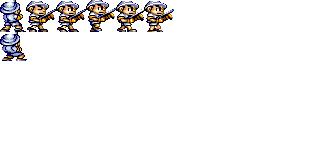
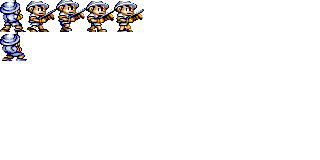
Update
He cambiado la spritesheet para que podamos trabajar de manera más cómoda. He estado viendo lo que tenemos que hacer y este finde podemos hacer hasta la versión 0.3.

Dejaría para el final los cambios de escena, que parece ser lo más chungo. Para la 0.2 haría los enemigos, y para la 0.3 una versión donde toda la primera pantalla sea funcional (disparos, enemigos, pop-out...)

Changed region(s): [[0.1562, 0.0, 0.5625, 0.2188]]

diff --git a/pang/Project_7_Solution/Source/ModuleRender.cpp b/pang/Project_7_Solution/Source/ModuleRender.cpp
@@ -55,7 +55,7 @@ update_status ModuleRender::PreUpdate()
 
 update_status ModuleRender::Update()
 {
-	//Handle positive vertical movement
+	/*//Handle positive vertical movement
 	if (App->input->keys[SDL_SCANCODE_UP] == KEY_REPEAT)
 		camera.y -= cameraSpeed;
 
@@ -68,7 +68,7 @@ update_status ModuleRender::Update()
 	if (camera.x < 0) camera.x = 0;
 
 	if (App->input->keys[SDL_SCANCODE_RIGHT] == KEY_REPEAT)
-		camera.x += cameraSpeed;
+		camera.x += cameraSpeed;*/
 
 
 	return update_status::UPDATE_CONTINUE;

diff --git a/pang/Project_7_Solution/Source/ModulePlayer.cpp b/pang/Project_7_Solution/Source/ModulePlayer.cpp
@@ -30,11 +30,11 @@ ModulePlayer::ModulePlayer()
 
 	//move right
 
-	//rightAnim.PushBack({ 26,0,30,32 });
-	rightAnim.PushBack({ 56,0,30,31 });
-	rightAnim.PushBack({ 86,0,30,31 });
-	rightAnim.PushBack({ 116,0,28,31 });
-	rightAnim.PushBack({ 144,0,28,31 });
+	rightAnim.PushBack({ 26,0,30,32 });
+	rightAnim.PushBack({ 56,0,30,32 });
+	rightAnim.PushBack({ 86,0,28,32 });
+	rightAnim.PushBack({ 114,0,29,32 });
+
 
 	rightAnim.loop = true;
 	rightAnim.speed = 0.1f;
